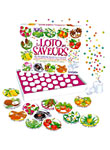
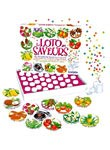
compression des images

diff --git a/css/header.css b/css/header.css
@@ -103,7 +103,7 @@
 				height:36px;
 				display:block;
 			  height:36px;
-			  background-image:url(img/sprite-onglets-png24.png) ;
+			  background-image:url(img/sprite-onglets-png8.png) ;
 			  background-repeat:no-repeat;
 			  z-index:101;/* 1 couche de plus que les megaMenu */
 			}
